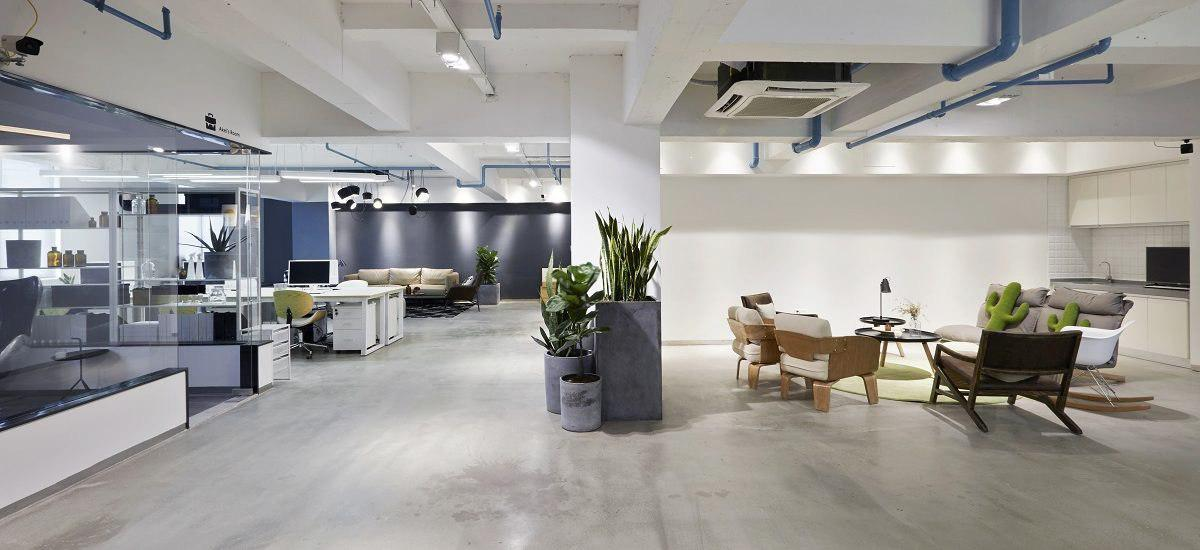
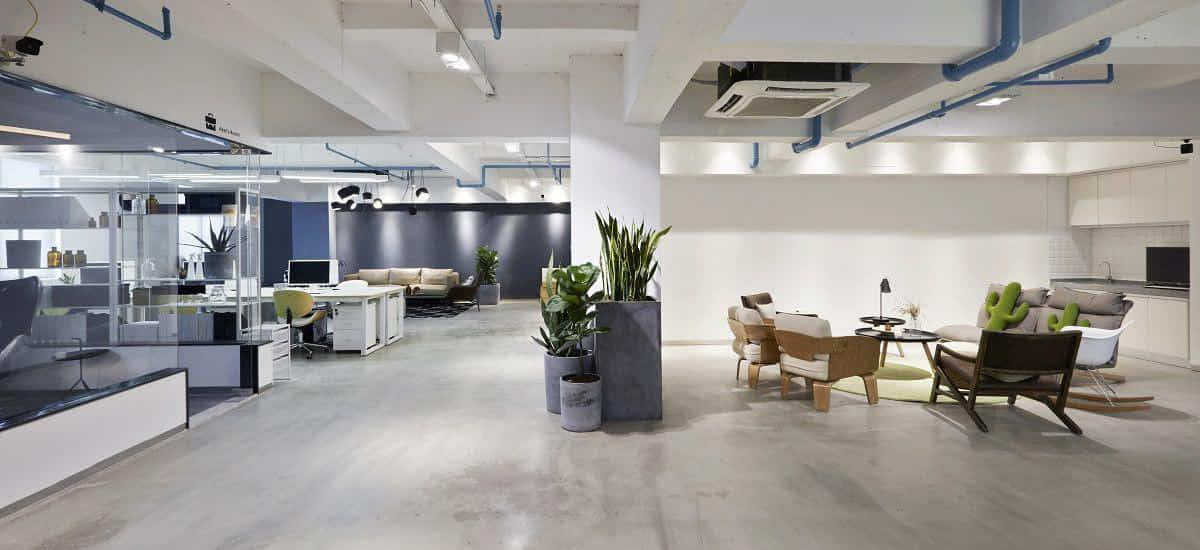
footer rtled,image header chagned

diff --git a/src/layout/Footer.js b/src/layout/Footer.js
@@ -12,130 +12,98 @@ class Footer extends Component {
       <footer className="contact-info-box">
         <section className="contact-info">
           <h1 style={{ paddingTop: "90px", fontWeight: 400 }}>
-            Our Client Success Team is always here to help
+            تیم موفقیت مشتریان ما همیشه همراهته .
           </h1>
           <p style={{ fontSize: "25px", paddingTop: "10px" }}>
-            Have questions? We are only a call, email or chat away.
+            سوالی داری؟ فاصله ات با ما یه زنگ یا چت یا ایمیله :)
           </p>
           <div className="contact-button-box">
-            <Button>Contact Us</Button>
-            <Button>Read FAQs</Button>
+            <Button>تماس با ما</Button>
+            <Button>سوالات متداول</Button>
           </div>
         </section>
         <section className="footer-links">
           <Container>
             <Row>
               <Col className="column" lg="2">
-                <h6>PRODUCT</h6>
+                <h6>محصولات</h6>
                 <ul>
                   <li>
-                    <a href="">Credit Cards</a>
+                    <a href="">فضای کار اشتراکی</a>
                   </li>
                   <li>
-                    <a href="">Credit Cards</a>
+                    <a href="">سالن جلسات</a>
                   </li>
                   <li>
-                    <a href="">Credit Cards</a>
+                    <a href="">جذب سرمایه</a>
                   </li>
                   <li>
-                    <a href="">Credit Cards</a>
+                    <a href="">اتاق کار خصوصی</a>
                   </li>
                   <li>
-                    <a href="">Credit Cards</a>
+                    <a href="">پذیرش استارت آپ</a>
                   </li>
                 </ul>
               </Col>
               <Col className="column" lg="2">
-                <h6>PRODUCT</h6>
+                <h6>پشتیبانی</h6>
                 <ul>
                   <li>
-                    <a href="">Credit Cards</a>
+                    <a href="">سوالات متداول</a>
                   </li>
                   <li>
-                    <a href="">Credit Cards</a>
-                  </li>
-                  <li>
-                    <a href="">Credit Cards</a>
-                  </li>
-                  <li>
-                    <a href="">Credit Cards</a>
-                  </li>
-                  <li>
-                    <a href="">Credit Cards</a>
+                    <a href="">امنیت</a>
                   </li>
                 </ul>
               </Col>
               <Col className="column" lg="2">
-                <h6>PRODUCT</h6>
+                <h6>شرکت</h6>
                 <ul>
                   <li>
-                    <a href="">Credit Cards</a>
+                    <a href="">بلاگ</a>
                   </li>
                   <li>
-                    <a href="">Credit Cards</a>
+                    <a href="">فرصت های شغلی</a>
                   </li>
                   <li>
-                    <a href="">Credit Cards</a>
-                  </li>
-                  <li>
-                    <a href="">Credit Cards</a>
-                  </li>
-                  <li>
-                    <a href="">Credit Cards</a>
+                    <a href="">اخبار</a>
                   </li>
                 </ul>
               </Col>
               <Col className="column" lg="2">
-                <h6>PRODUCT</h6>
+                <h6>همکاران تجاری</h6>
                 <ul>
                   <li>
-                    <a href="">Credit Cards</a>
-                  </li>
-                  <li>
-                    <a href="">Credit Cards</a>
-                  </li>
-                  <li>
-                    <a href="">Credit Cards</a>
-                  </li>
-                  <li>
-                    <a href="">Credit Cards</a>
-                  </li>
-                  <li>
-                    <a href="">Credit Cards</a>
+                    <a href="">درخواست همکاری</a>
                   </li>
                 </ul>
               </Col>
               <Col className="column" lg="2">
-                <h6>PRODUCT</h6>
+                <h6>قوانین و مجوز ها</h6>
                 <ul>
                   <li>
-                    <a href="">Credit Cards</a>
+                    <a href="" />
                   </li>
                   <li>
-                    <a href="">Credit Cards</a>
+                    <a href="">قوانین استفاده</a>
                   </li>
                   <li>
-                    <a href="">Credit Cards</a>
-                  </li>
-                  <li>
-                    <a href="">Credit Cards</a>
-                  </li>
-                  <li>
-                    <a href="">Credit Cards</a>
+                    <a href="">حریم خصوصی</a>
                   </li>
                 </ul>
               </Col>
             </Row>
             <Row className="copyright">
               <Col lg="12">
-                <span style={{ float: "left" }}>© 2019 Reqter</span>
-                <span style={{ float: "right" }}>
-                  FIND US: <a href="">Twitter</a> | <a href="">LinkedIn</a>
+                <span style={{ float: "right" }}>© 2019 Startup Space</span>
+                <span style={{ float: "left" }}>
+                  ما را دنبال کنید: <a href="">اینستاگرام</a> |{" "}
+                  <a href="">لینکداین</a>
                 </span>
                 <br />
                 <hr style={{ margin: 0, borderColor: "lightgrey" }} />
-                <span style={{ float: "left" }}>
-                  Credible Operations, Inc. NMLS ID# 1681276
+                <span style={{ float: "right" }}>
+                  حق کپی رایت برای استارت آپ اسپیس محفوظ است.
                 </span>
               </Col>
             </Row>

diff --git a/src/layout/Head.js b/src/layout/Head.js
@@ -28,6 +28,7 @@ import conferenceRoomBgImg from "../assets/images/products-bgImg/conferenceRoom.
 import investBgImg from "../assets/images/products-bgImg/invest.jpg";
 import privateOfficeBgImg from "../assets/images/products-bgImg/privateOffice.jpg";
 import startupBgImg from "../assets/images/products-bgImg/startup.jpg";
+// import defaultGIF from "../assets/images/products-bgImg/default-gif.mp4";
 class Head extends Component {
   constructor(props) {
     super(props);
@@ -64,7 +65,8 @@ class Head extends Component {
               style={{
                 backgroundImage: `url(${
                   this.state.bgImg[this.state.activeTab]
-                })`
+                })`,
+                backgroundColor: "#93D2FA"
               }}
             >
               <div className="header-content">

diff --git a/src/assets/styles/Footer.scss b/src/assets/styles/Footer.scss
@@ -3,6 +3,8 @@ footer {
   background-size: contain;
   width: 100%;
   display: block;
+  direction: rtl;
+
   .contact-info-box {
     width: 100%;
   }
@@ -38,7 +40,7 @@ footer {
     a {
       color: #5cc1a7 !important;
     }
-    text-align: left;
+    text-align: right;
     h6 {
       font-size: 14px;
       color: white;

diff --git a/src/assets/styles/Head.scss b/src/assets/styles/Head.scss
@@ -1,5 +1,5 @@
 .picture-fader {
-  background-color: rgba(0, 0, 0, 0.15);
+  background-color: rgba(0, 0, 0, 0.35);
   height: 550px;
   width: 100%;
   position: absolute;
